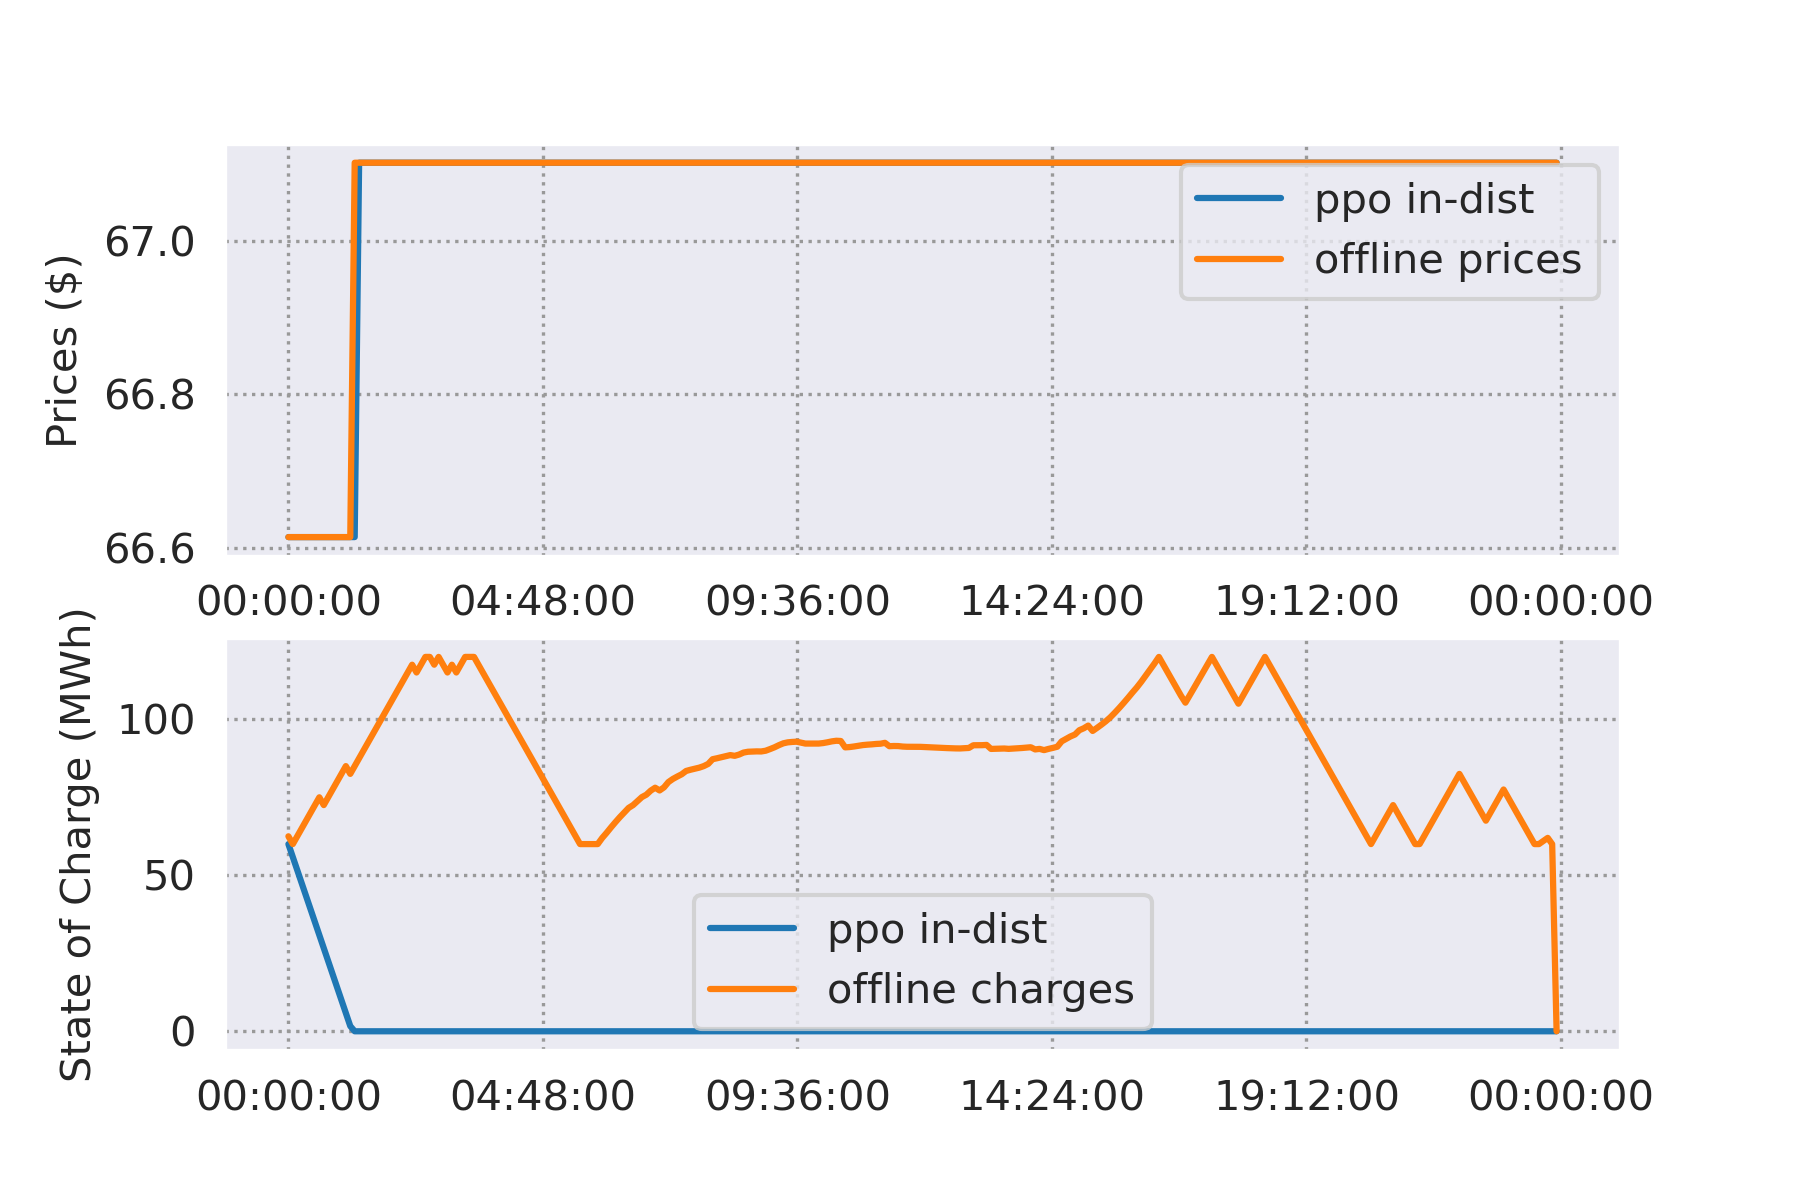
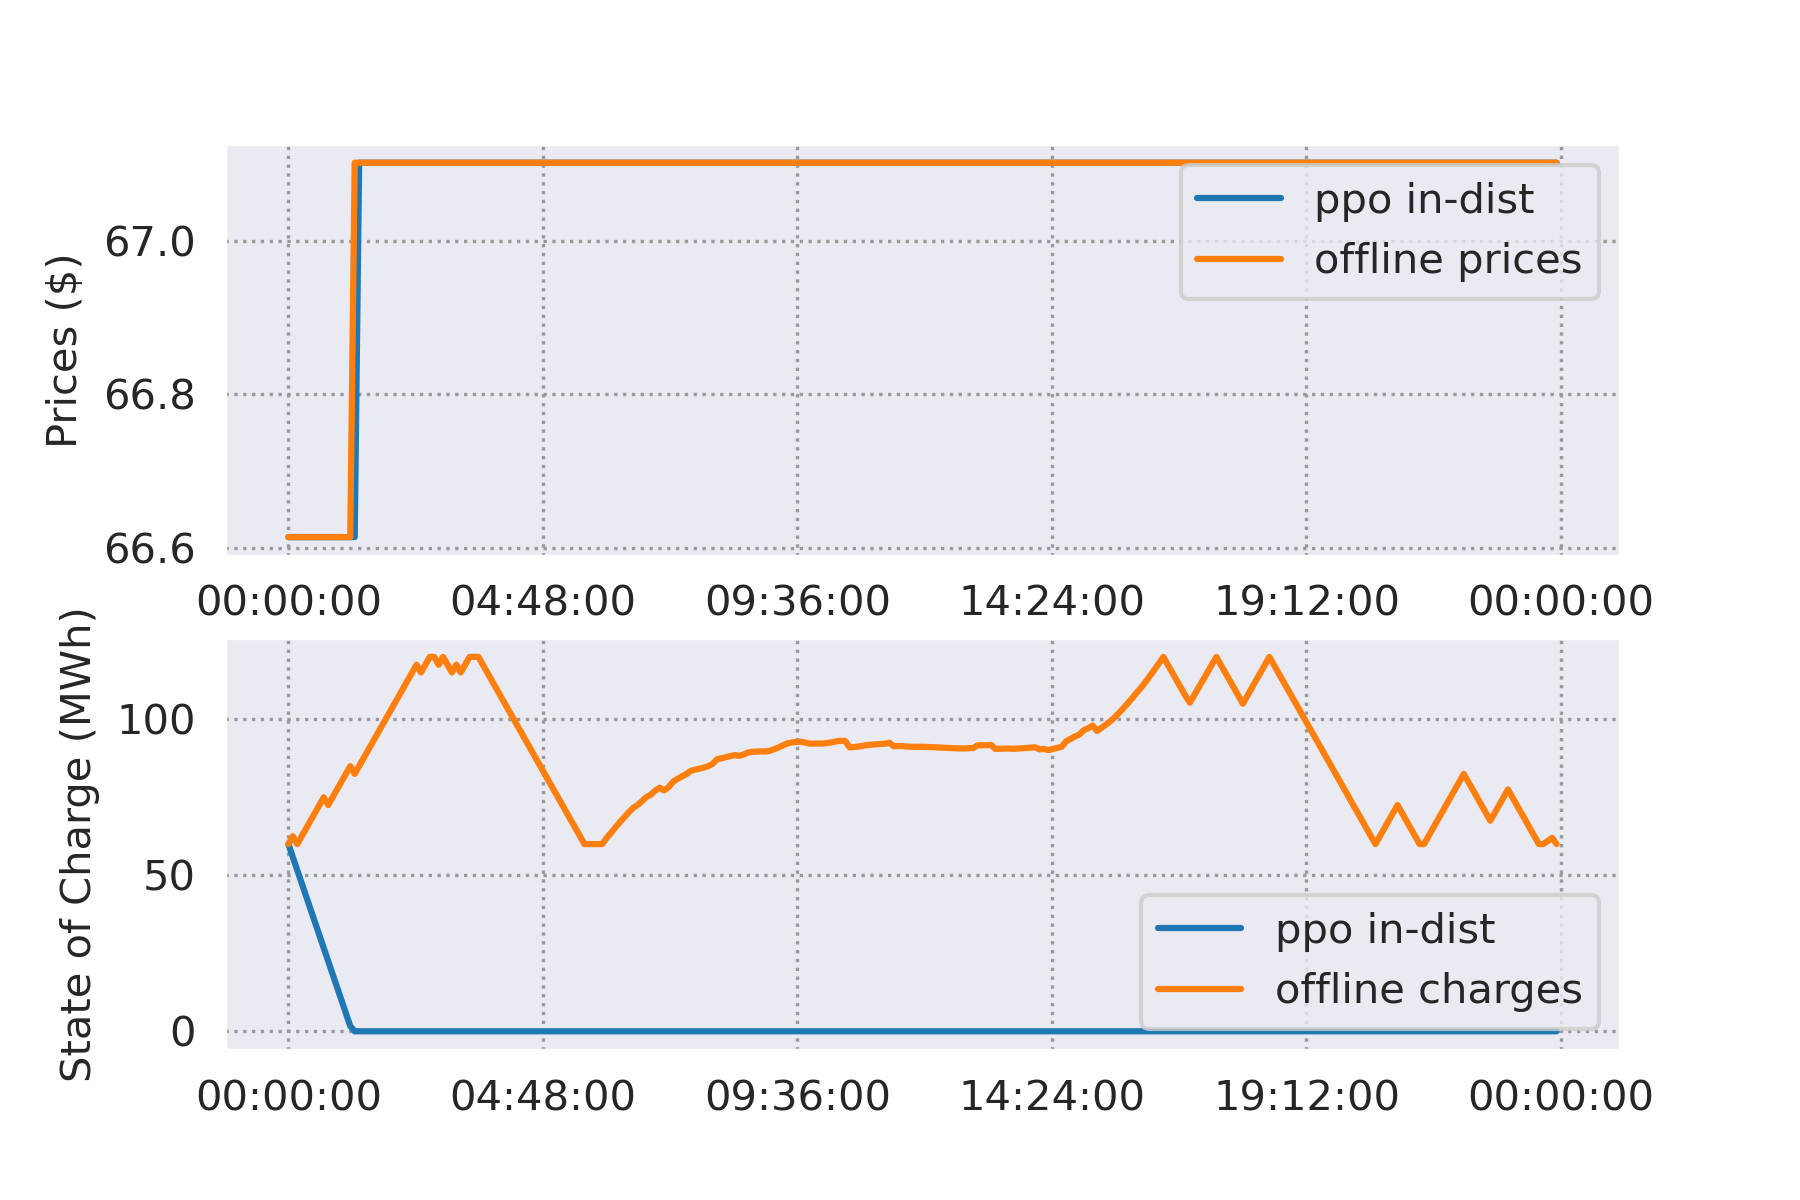
fixed  plots

diff --git a/sustaingym/envs/battery/plot_utils.py b/sustaingym/envs/battery/plot_utils.py
@@ -99,13 +99,10 @@ def get_offline_optimal(episodes, env):
         prices[0] = prices[1]
         episode_rewards.append(rewards)
         episode_prices.append(prices)
-        
-        curr_soc = init_soc
-        charges = np.zeros(env.MAX_STEPS_PER_EPISODE)
 
-        for i in range(len(dispatches)):
-            charges[i] = curr_soc + -1. * dispatches[i]
-            curr_soc += -1. * dispatches[i]
+        charges = np.zeros(env.MAX_STEPS_PER_EPISODE)
+        charges[0] = init_soc
+        charges[1:] = init_soc + np.cumsum(-1. * dispatches)
 
         episode_charges.append(charges)
         

diff --git a/sustaingym/envs/battery/MO_single_agent_battery_storage_env.py b/sustaingym/envs/battery/MO_single_agent_battery_storage_env.py
@@ -664,8 +664,9 @@ class BatteryStorageInGridEnv(Env):
                 import pdb
                 pdb.set_trace()
         
-        print("expected cumulative reward: ", prob.value)
-        
+        # print("expected cumulative reward: ", prob.value)
+        # print("expected state of charges: ", init_battery_charge + np.cumsum(-1. * x.value))
+        # print("expected final state of charge: ", init_battery_charge + np.cumsum(-1. * x.value)[-1])
         return prob.value, x.value, prices
 
     def render(self):
